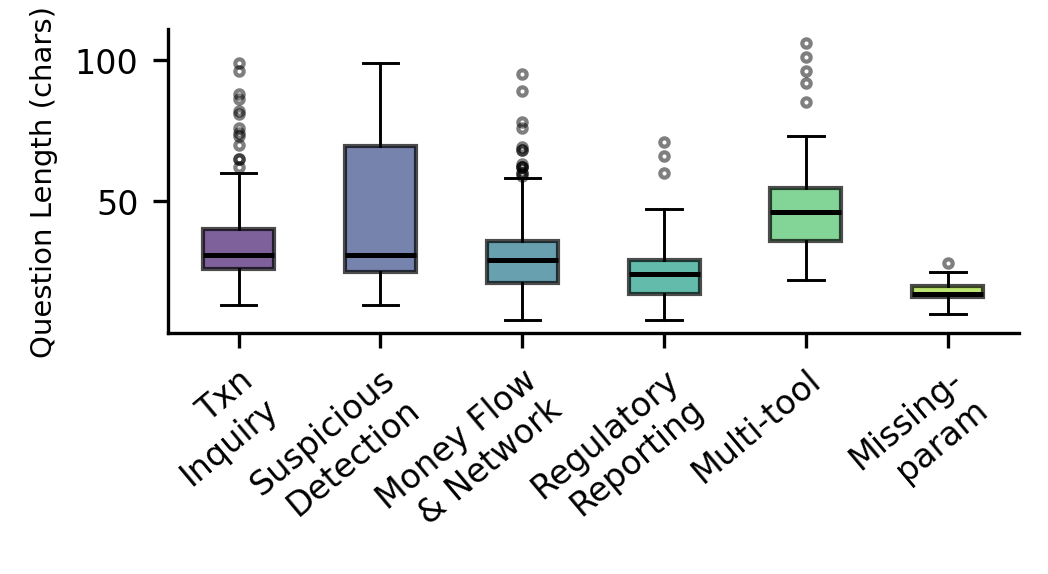
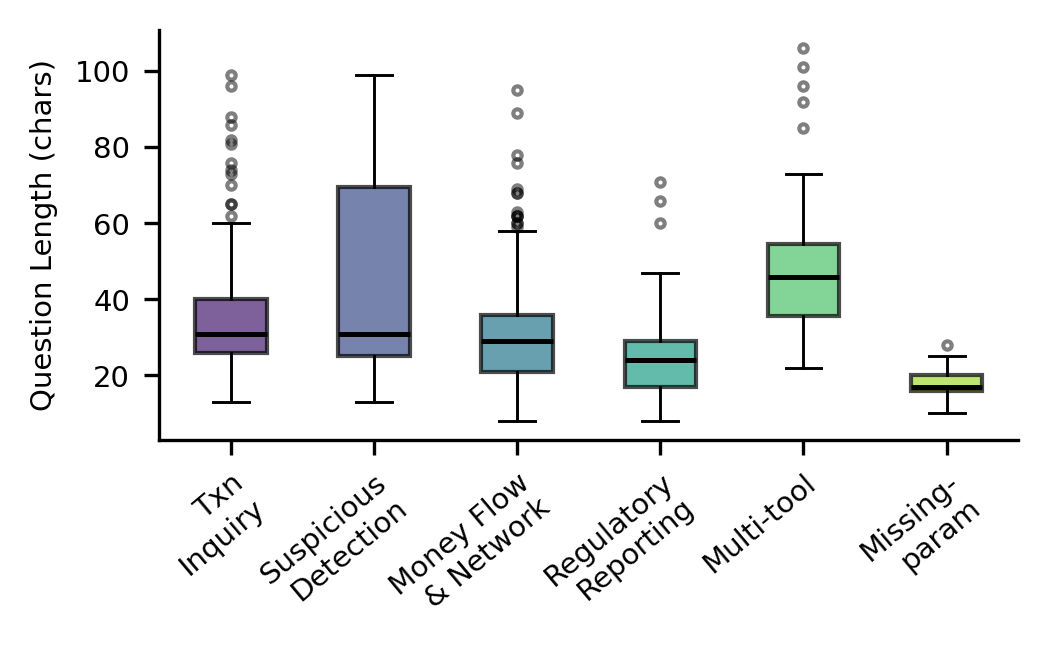
viz: shrink qlen tick fonts and increase diversity panel height (2.0->2.3)

diff --git a/_experiments/scripts/generate_new_figures.py b/_experiments/scripts/generate_new_figures.py
@@ -555,7 +555,7 @@ def fig_tsne_semantic():
     }
 
     # 2-panel figure*(\app:diversity)용: 패널 실제 폭(~3.5in)에 맞춰 figsize/폰트 재설정 → 다운스케일 없이 가독성 확보
-    fig, ax = plt.subplots(figsize=(3.6, 2.0))
+    fig, ax = plt.subplots(figsize=(3.6, 2.3))
 
     plotted_subdomains = set()
     for i, (x, y) in enumerate(coords):
@@ -765,7 +765,7 @@ def fig_question_length_boxplot_summary():
         lengths_by_sd[sd].extend([len(c.get("question", "")) for c in data])
 
     # 2-panel figure*(\app:diversity)용: 패널 실제 폭(~3.5in)에 맞춰 figsize/폰트 재설정 → 다운스케일 없이 가독성 확보
-    fig, ax = plt.subplots(figsize=(3.6, 2.0))
+    fig, ax = plt.subplots(figsize=(3.6, 2.3))
     box_data = [lengths_by_sd[sd] for sd in SUBDOMAIN_ORDER]
 
     bp = ax.boxplot(box_data, patch_artist=True, vert=True,
@@ -778,8 +778,8 @@ def fig_question_length_boxplot_summary():
         patch.set_facecolor(color)
         patch.set_alpha(0.7)
 
-    ax.set_xticklabels([sd for sd in SUBDOMAIN_ORDER], fontsize=8, rotation=40, ha="right", rotation_mode="anchor")
-    ax.tick_params(axis='y', labelsize=8)
+    ax.set_xticklabels([sd for sd in SUBDOMAIN_ORDER], fontsize=7, rotation=40, ha="right", rotation_mode="anchor")
+    ax.tick_params(axis='y', labelsize=7)
     apply_style(ax, ylabel="Question Length (chars)")
     ax.yaxis.label.set_size(7)
 
